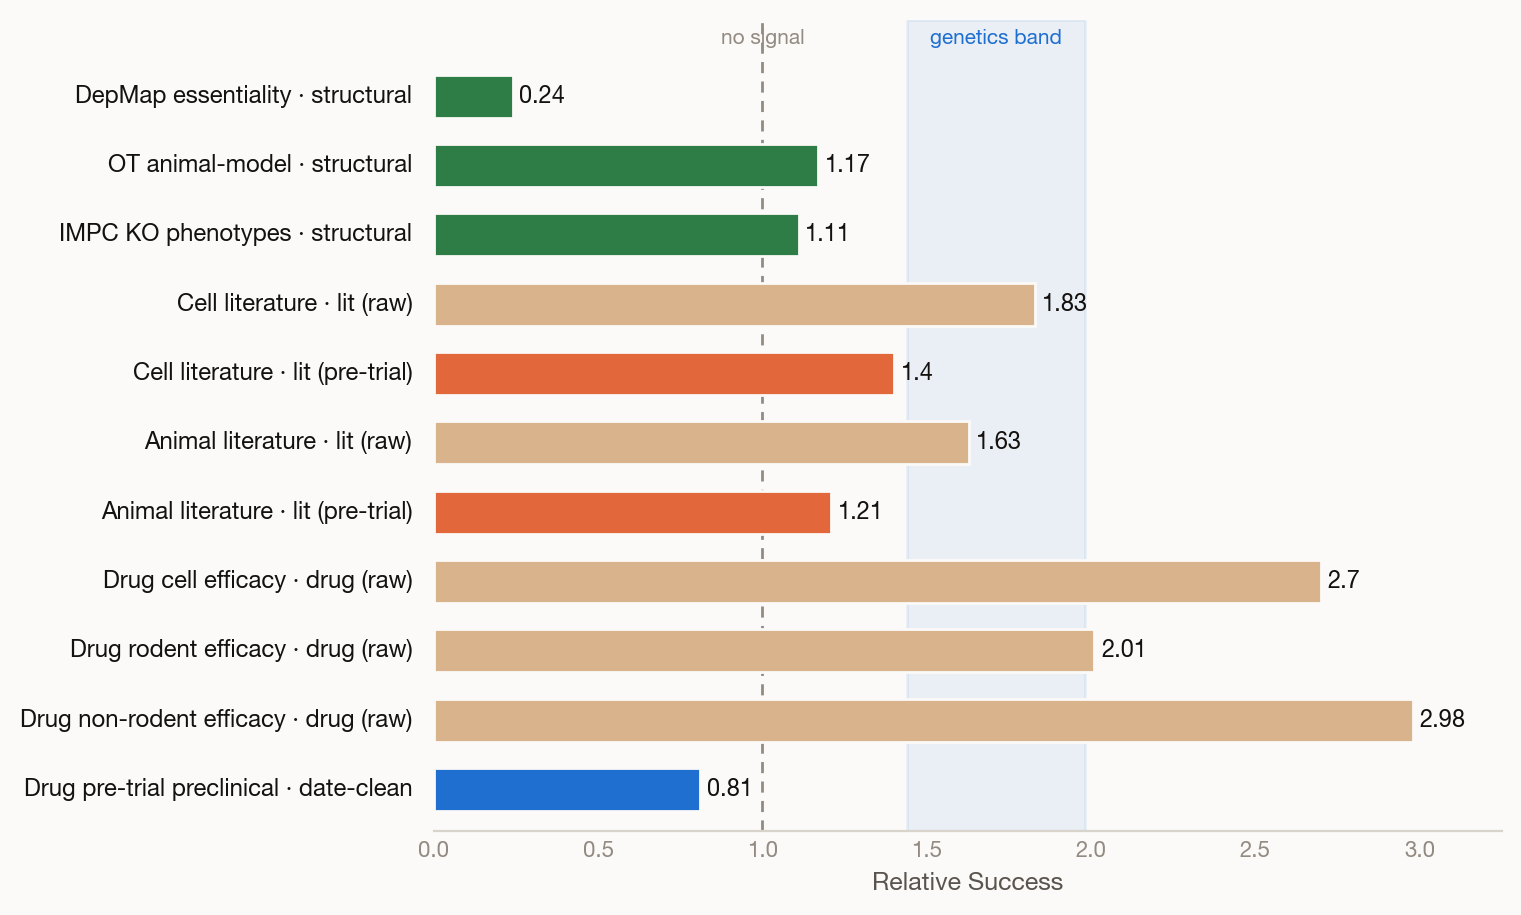
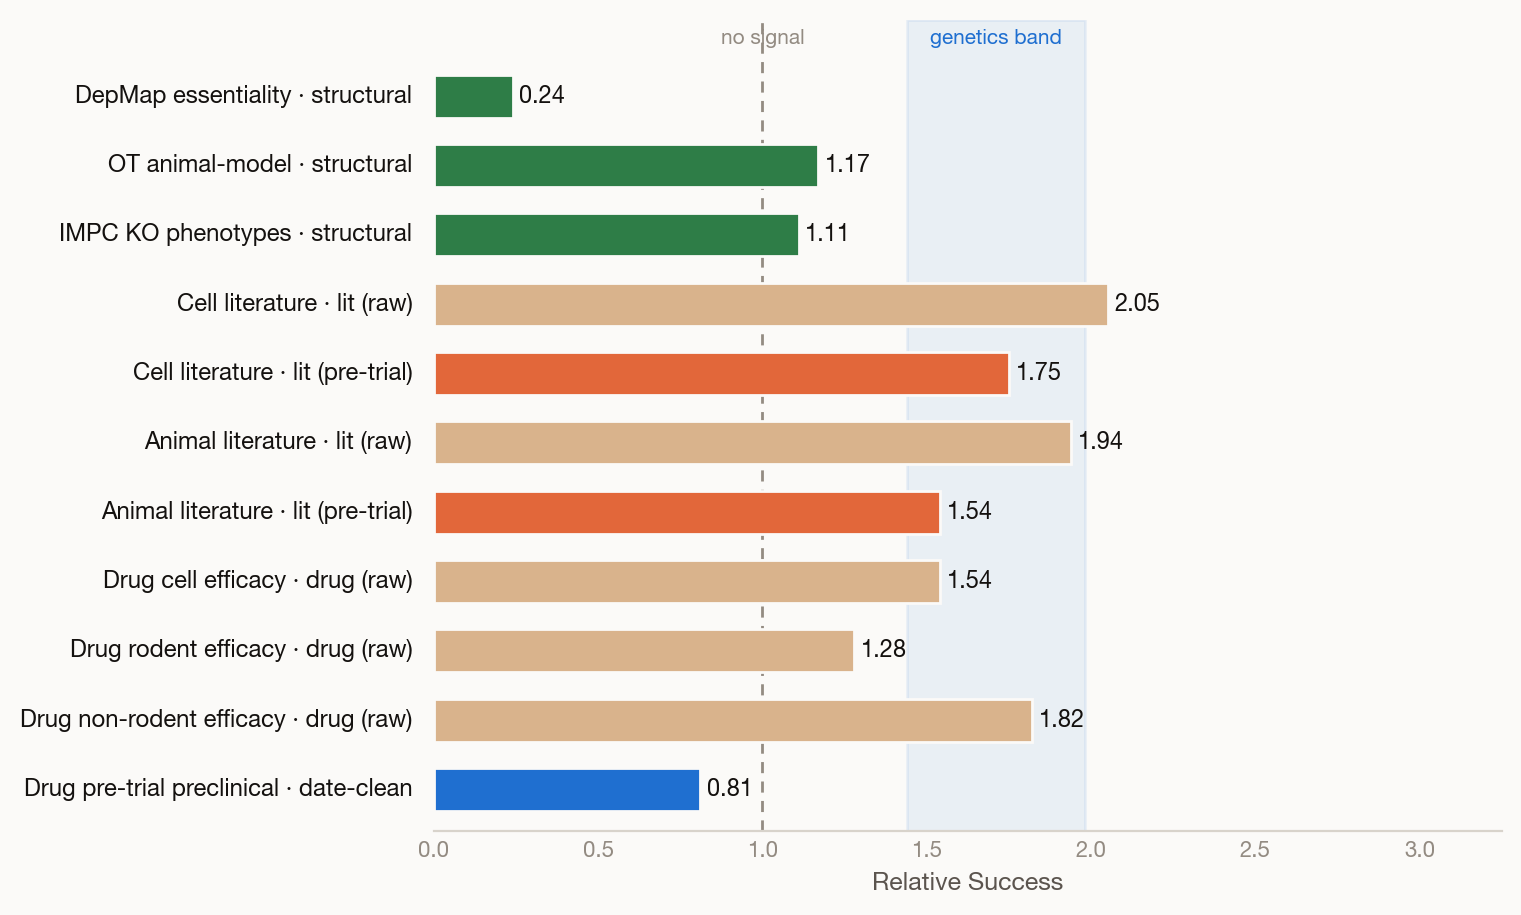
Fix Section-5 nuance: dedup evidence_score + remove scored-vs-unscored selection artifact
Two data artifacts corrected (cross-checked in PR #12 and #13):
1. evidence_score has ~4 identical rows per (subject,dimension) from repeated
   ingest jobs; left-merges fanned out ~4x. Dedup before merging. Literature was
   UNDERstated: cell date-clean 1.40->1.75, animal 1.21->1.54.
2. Raw drug-efficacy left-joined the rubric onto the full cohort, lumping ~13k
   never-scored drugs into 'not supported' -> inflated RS. Inner-join to scored
   drugs: cell 2.70->1.54, non-rodent 2.98->1.82. The 'strongest predictor of
   anything, above genetics' claim was mostly this artifact; the raw rubric sits
   inside the genetics band. Thesis (date-clean collapse; genetics holds) survives.

Regenerated figures + CSVs from corrected numbers. Added a Correction (2026-07-25)
block to the doc pointing to #12/#13 as the authoritative recomputes.

diff --git a/analyses/nuance_drug_and_structural.py b/analyses/nuance_drug_and_structural.py
@@ -114,6 +114,9 @@ def main():
                    FROM preclin.evidence_score WHERE subject_type='drug'
                    AND dimension IN ('drug_cell_efficacy','drug_rodent_efficacy','drug_nonrodent_efficacy')""")
     drugeff = pd.DataFrame(cur.fetchall())
+    # DEDUP (fix 2026-07-25, cf. PR #12): evidence_score has ~4 identical rows per
+    # (drug, dimension) from repeated ingest jobs; dedup before merging to avoid fan-out.
+    drugeff = drugeff.drop_duplicates(subset=["drug_id", "dimension"], keep="first").reset_index(drop=True)
     # structural raw RS straight from the clean view
     cur.execute("""SELECT dimension, n_supported, relative_success
                    FROM preclin.v_relative_success_clean
@@ -128,7 +131,11 @@ def main():
                      ("drug_rodent_efficacy","Drug rodent efficacy (rubric, raw)"),
                      ("drug_nonrodent_efficacy","Drug non-rodent efficacy (rubric, raw)")]:
         e = drugeff[drugeff.dimension==dim][["drug_id","score"]]
-        m = progs.merge(e, on="drug_id", how="left")
+        # SELECTION FIX (2026-07-25, cf. PR #13): inner-join so only drugs that ACTUALLY
+        # carry this rubric score enter the cohort. The prior left-join lumped ~13k
+        # never-scored drugs into "not supported", deflating P(appr|not) and inflating RS
+        # (a scored-vs-unscored selection artifact, not real signal).
+        m = progs.merge(e, on="drug_id", how="inner")
         sup = (m.score.fillna(0) >= 2).to_numpy()
         r = rs_ci(sup, m.approved.fillna(False).to_numpy(bool)); r.update(tier="drug_efficacy", measure=lab)
         rows.append(r)

diff --git a/analyses/nuance_literature_dateclean.py b/analyses/nuance_literature_dateclean.py
@@ -54,6 +54,11 @@ def pull_cohort():
         WHERE subject_type='target' AND dimension IN ('line_c_lit','line_d_lit')
     """)
     ev = pd.DataFrame(cur.fetchall())
+    # DEDUP (fix 2026-07-25, cf. PR #12): preclin.evidence_score holds ~4 identical
+    # rows per (subject, dimension) from repeated ingest jobs. Without deduping, the
+    # downstream left-merge on target_id fans out ~4x and distorts RS. Duplicates are
+    # identical, so keep-first is exact.
+    ev = ev.drop_duplicates(subset=["target_id", "dimension"], keep="first").reset_index(drop=True)
     conn.close()
     return progs, ev
 

diff --git a/analyses/MODEL_SYSTEM_PREDICTIVENESS.md b/analyses/MODEL_SYSTEM_PREDICTIVENESS.md
@@ -14,6 +14,30 @@ is far from the clinical endpoint (Alzheimer's), at any level of model sophistic
 We are **not** ranking model types (organoid > primary > immortalized). The data
 can't support it and it's disease-specific — see the design spec's out-of-scope note.
 
+## Correction (2026-07-25)
+
+Two data artifacts in the original version were found and fixed (independently
+cross-checked in PR #12 and PR #13). All numbers/readings below are the corrected ones.
+
+1. **De-duplication.** `preclin.evidence_score` stores ~4 identical rows per
+   (subject, dimension) from repeated ingest jobs; the original left-merges fanned out
+   ~4× and distorted RS. Fixed by de-duplicating on (subject, dimension) before merging.
+   Effect: the literature numbers were *understated* — cell date-clean 1.40 → **1.75**,
+   animal 1.21 → **1.54** (so "animal is nearly null" was wrong; it's modest-but-real).
+2. **Scored-vs-unscored selection.** The raw drug-efficacy RS previously left-joined
+   the rubric onto the full cohort, lumping ~13k never-scored drugs into "not supported"
+   — deflating the baseline and inflating RS. Restricting to drugs that actually carry
+   the score: drug cell 2.70 → **1.54**, non-rodent 2.98 → **1.82**. **The original
+   "strongest predictor of anything, above genetics" claim was mostly this artifact** —
+   the raw rubric signal sits *inside* the genetics band, not above it.
+
+**What survives:** the thesis is unchanged and cleaner — apparent preclinical-efficacy
+signal still collapses under date-cleaning (drug pre-trial RS 0.81), and structured
+genetics remains the robust benchmark. Retracted: the "above genetics" magnitude and
+"animal nearly null." PR #12 (literature, incl. a scored-subset sensitivity: the
+stricter view is B/D ≈ null, C/E ~1.2–1.3) and PR #13 (drug-efficacy dated re-score)
+are the authoritative deeper recomputes.
+
 ## Headline result
 
 Split cell/animal evidence into three tiers by how "mechanistic" it is, and measure
@@ -25,20 +49,22 @@ the benchmark.
 
 | Tier | Measure | Raw RS | Date-clean RS | Read |
 |---|---|---|---|---|
-| **Drug-efficacy** (does *this drug* work in the model) | drug cell efficacy (rubric) | **2.70** | — | rubric can't be dated (no PMIDs stored) |
-| | drug rodent / non-rodent efficacy (rubric) | 2.01 / 2.98 | — | " |
-| | **pre-first-trial preclinical evidence (PubMed)** | — | **0.81** [0.75,0.87] | date-clean measure: the huge raw signal **vanishes** |
-| **Literature** (is there a cell/animal paper) | cell literature (line_c) | 1.83 | **1.40** [1.33,1.46] | ~half was hindsight |
-| | animal literature (line_d) | 1.63 | **1.21** [1.15,1.27] | ~two-thirds was hindsight; nearly null |
+| **Drug-efficacy** (does *this drug* work in the model) | drug cell efficacy (rubric, scored subset) | **1.54** | — | rubric can't be dated (no PMIDs stored) |
+| | drug rodent / non-rodent efficacy (rubric, scored subset) | 1.28 / 1.82 | — | " |
+| | **pre-first-trial preclinical evidence (PubMed)** | — | **0.81** [0.75,0.87] | date-clean measure: the raw signal collapses to null |
+| **Literature** (is there a cell/animal paper) | cell literature (line_c) | 2.05 | **1.75** [1.60,1.92] | ~30% of the excess was hindsight |
+| | animal literature (line_d) | 1.94 | **1.54** [1.40,1.69] | ~40% was hindsight; modest but real |
 | **Structural** (causal-perturbation screens) | DepMap essentiality | **0.24** | (snapshot) | a *liability* — essential genes make bad targets |
 | | IMPC KO phenotypes / OT animal-model | 1.11 / 1.17 | (snapshot) | modest |
 
 The field's flagship preclinical deliverable — *"the drug worked in our model"* —
-looks like the **single strongest predictor of anything** (RS ~2.7–3.0, above
-genetics). But that is almost entirely leakage: a date-clean measure of whether
-genuinely pre-trial preclinical evidence existed gives **RS 0.81** — no positive
-association with approval at all. Genetics, which is structural and hard to
-retro-fit, holds. See `data/nuance_dateclean_collapse*` and `nuance_tier_overview*`.
+looks predictive raw (RS ~1.5–1.8), but that sits **within** the genetics band once
+the scored-vs-unscored selection artifact is removed — the earlier "above genetics"
+reading was that artifact. And even that modest raw signal does not reproduce under
+date-cleaning: a measure of whether genuinely pre-trial preclinical evidence existed
+gives **RS 0.81** — no positive association with approval. Genetics, which is
+structural and hard to retro-fit, holds. See `data/nuance_dateclean_collapse*` and
+`nuance_tier_overview*`.
 
 ## Method
 
